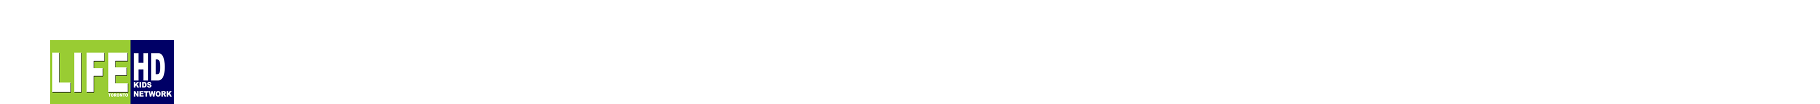
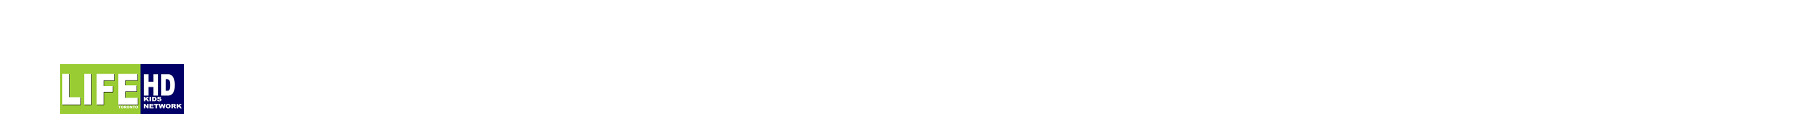
Toronto Channels 1.7.1

Changed region(s): [[0.0, 0.375, 0.1231, 1.0]]

diff --git a/addon.py b/addon.py
@@ -112,6 +112,10 @@ def play_yt_m3u(link, title):
         copy(Life_overlay, transpath(join(addon('service.banners.mod').getAddonInfo('profile').decode('utf-8'), 'mybanners', 'logo.png')))
 
     addon('service.banners.mod').setSetting('on', 'true')
+    addon('service.banners.mod').setSetting('bannerpos', '0')
+    addon('service.banners.mod').setSetting('yoffset', '0')
+    addon('service.banners.mod').setSetting('cyclepause', '0')
+    addon('service.banners.mod').setSetting('changetime', '5')
 
     import random
 
